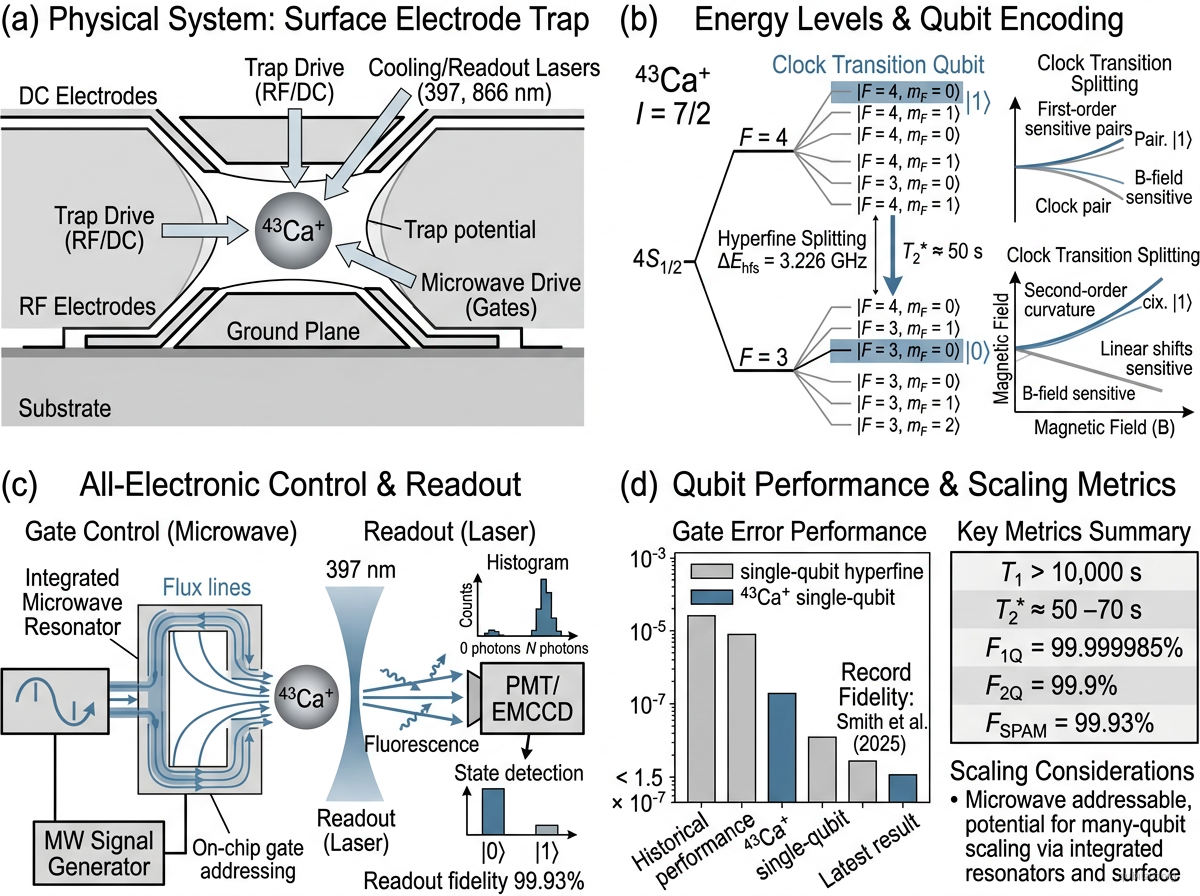
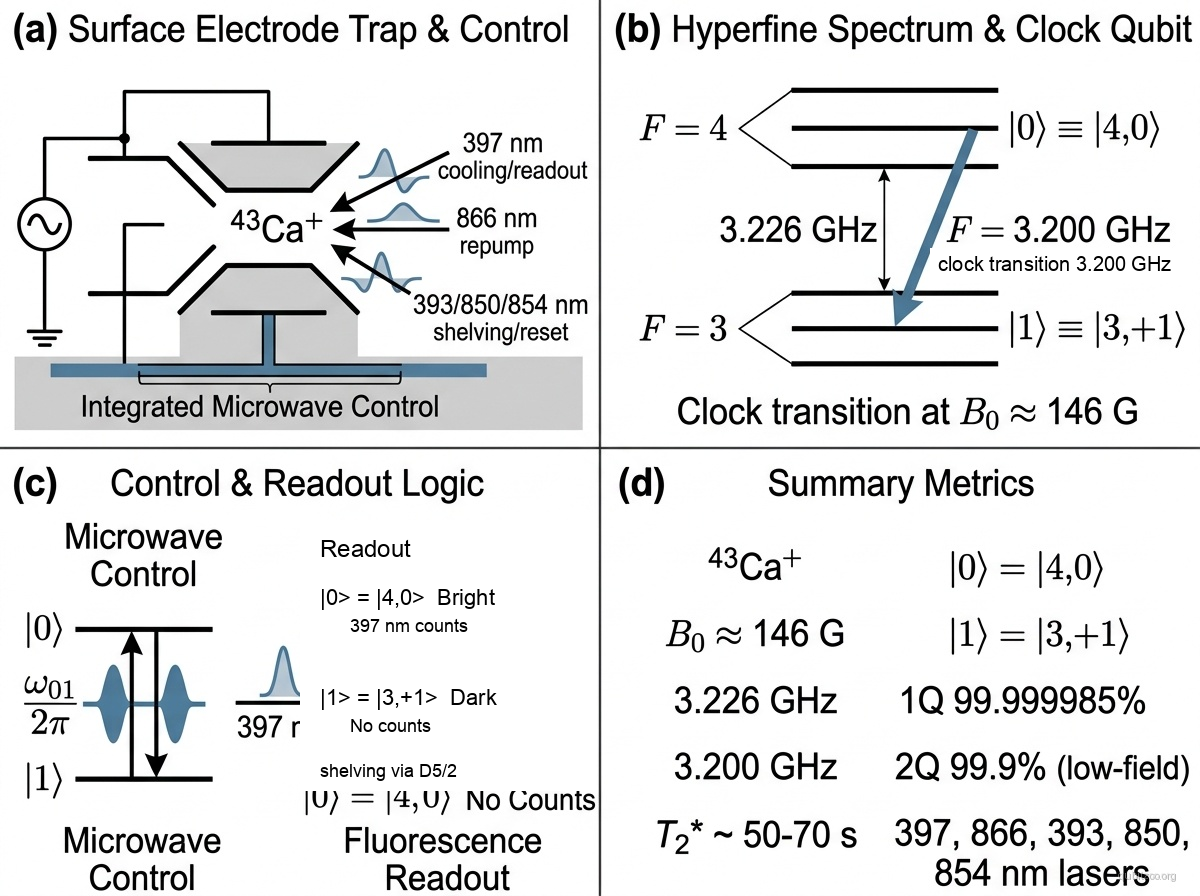
Audit calcium-43 ion qubit entry

diff --git a/content/Zoo/calcium-43-ion-qubit.md b/content/Zoo/calcium-43-ion-qubit.md
@@ -3,7 +3,7 @@ title: Calcium-43 Trapped-Ion Qubit
 entry_type: qubit
 technology_family: Trapped Ion
 status: demonstrated
-figure_reviewed: false
+figure_reviewed: true
 first_proposed_year: 2014
 first_demonstrated_year: 2014
 keywords:
@@ -17,10 +17,10 @@ keywords:
 - surface electrode trap
 - single qubit fidelity record
 influence_score: 0.84
-last_updated: '2026-04-04'
+last_updated: '2026-04-05'
 generated_by: scibok-curation
 extracted_by: scibok
-verified_by: scibok-manual-2026-04-04
+verified_by: scibok-deep-audit-2026-04-05
 ---
 
 ## Figure
@@ -29,46 +29,45 @@ verified_by: scibok-manual-2026-04-04
 
 ## Description
 
-The calcium-43 trapped-ion qubit encodes quantum information in the hyperfine clock states of the $^{43}\text{Ca}^+$ ion's $4S_{1/2}$ ground-state manifold. With nuclear spin $I = 7/2$, the ground state splits into $F = 3$ and $F = 4$ hyperfine levels separated by 3.226 GHz, yielding 16 ground-state sublevels. The qubit is encoded in the magnetically insensitive $|F=4, m_F=0\rangle \leftrightarrow |F=3, m_F=0\rangle$ clock transition, providing first-order immunity to magnetic field fluctuations with measured coherence times $T_2^* \approx 50$ seconds without magnetic shielding.
+The calcium-43 trapped-ion qubit stores quantum information in the hyperfine ground-state manifold of $^{43}\text{Ca}^+$, whose nuclear spin $I = 7/2$ splits the $4S_{1/2}$ level into $F = 3$ and $F = 4$ manifolds separated by 3.226 GHz at zero field, for a total of 16 ground-state sublevels. In the Oxford high-coherence implementation, the qubit is encoded in the field-independent hyperfine transition $|4,0\rangle \leftrightarrow |3,+1\rangle$ at a bias field of about 146 G, giving a qubit frequency near 3.200 GHz and strong suppression of first-order magnetic-field noise. This operating point underlies the long memory times reported by Harty et al. (2014) and the record single-qubit fidelities reported by Smith et al. (2025).
 
-The $^{43}\text{Ca}^+$ ion is the workhorse qubit of the Oxford ion trap group. Its defining advantage is compatibility with microwave-driven single-qubit gates using chip-integrated microwave resonators and waveguides on surface-electrode traps. This eliminates the need for lasers in single-qubit operations entirely, providing a path to scalable control without complex optical addressing. Laser systems are still required for cooling (397 nm), repumping (866 nm), and state readout via electron shelving, but qubit manipulation itself is all-electronic.
+The $^{43}\text{Ca}^+$ ion is the workhorse qubit of the Oxford trapped-ion program because it pairs atomic-clock-grade coherence with microwave control in a microfabricated surface-electrode trap. Chip-integrated microwave resonators and waveguides drive single-qubit rotations electronically, avoiding laser-based single-qubit addressing. Lasers are still required for Doppler cooling (397 nm), repumping (866 nm), shelving/reset (393/850/854 nm), and fluorescence-based state preparation and readout, but coherent single-qubit control itself is all-electronic.
 
-This platform holds the all-time record for single-qubit gate fidelity across all physical qubit technologies: Smith et al. (2025) demonstrated a Clifford gate error of $1.5(4) \times 10^{-7}$ (fidelity 99.999985%), using a microfabricated surface-electrode trap at room temperature without magnetic shielding. The two-qubit gate record for $^{43}\text{Ca}^+$ is 99.9(1)%, demonstrated by Ballance et al. (2016) using geometric phase gates.
+Different $^{43}\text{Ca}^+$ experiments use different hyperfine encodings depending on the task. The best single-qubit results use the 146 G clock transition above, while Ballance et al. (2016) used a low-field Raman-driven hyperfine basis for the 99.9(1)% two-qubit gate result. Together these experiments make $^{43}\text{Ca}^+$ a benchmark species for long-lived, high-fidelity trapped-ion qubits.
 
 ## Hamiltonian
 
-The ground-state hyperfine Hamiltonian for $^{43}\text{Ca}^+$ ($I = 7/2$, $J = 1/2$):
+For the $4S_{1/2}$ ground manifold of $^{43}\text{Ca}^+$ ($I = 7/2$, $J = 1/2$), the relevant Hamiltonian is the hyperfine-plus-Zeeman Hamiltonian
 
-$$H_{\text{hfs}} = A_{\text{hfs}} \, \mathbf{I} \cdot \mathbf{J} + B_{\text{hfs}} \frac{3(\mathbf{I} \cdot \mathbf{J})^2 + \frac{3}{2}(\mathbf{I} \cdot \mathbf{J}) - I(I+1)J(J+1)}{2I(2I-1)J(2J-1)}$$
+$$H = A_{\mathrm{hfs}}\, \mathbf{I}\cdot\mathbf{J} + \mu_B g_J J_z B - \mu_N g_I I_z B.$$
 
-For $J = 1/2$, the electric quadrupole term ($B_{\text{hfs}}$) vanishes, simplifying to:
+Because $J = 1/2$, there is no electric-quadrupole hyperfine term in this manifold. At zero field this produces the familiar $F=4$ and $F=3$ hyperfine manifolds with splitting $\Delta E_{\mathrm{hfs}} = h \times 3.226\,\mathrm{GHz}$. At finite magnetic field the eigenenergies follow the Breit-Rabi structure, and the Oxford clock qubit is chosen at the field-independent point near $B_0 \approx 146\,\mathrm{G}$ on the transition
 
-$$H_{\text{hfs}} = A_{\text{hfs}} \, \mathbf{I} \cdot \mathbf{J}$$
+$$|0\rangle \equiv |4,0\rangle, \qquad |1\rangle \equiv |3,+1\rangle,$$
 
-with $\Delta E_{\text{hfs}} = h \times 3.226\,\text{GHz}$.
+with qubit frequency $\omega_{01}/2\pi \approx 3.200\,\mathrm{GHz}$. Near that operating point,
 
-The clock-state transition frequency shifts only at second order in magnetic field:
+$$\omega_{01}(B) \approx \omega_{01}(B_0) + \tfrac{1}{2}\kappa (B-B_0)^2,$$
 
-$$\omega_{01}(B) = \omega_{01}(0) + \beta B^2$$
-
-where $\beta/2\pi \approx 1243\,\text{Hz/mT}^2$.
+so the first-order magnetic sensitivity vanishes. Separate low-field gate experiments on the same species use other hyperfine basis states; for example, Ballance et al. (2016) operated a Raman-driven two-qubit gate in a low-field regime rather than at the 146 G clock point.
 
 ## Motivation
 
-The $^{43}\text{Ca}^+$ system demonstrates that microwave-driven qubit gates can achieve fidelities far exceeding what laser-driven systems have demonstrated for single-qubit operations. Microwave control offers fundamental advantages for scaling: microwave fields can be generated on-chip via lithographically defined resonators, avoiding the alignment, pointing stability, and individual beam delivery challenges of laser-based addressing. The record $10^{-7}$-level gate errors place single-qubit operations effectively in the "error-free" regime for practical fault-tolerant quantum computing, shifting the engineering focus to two-qubit gates and system-level integration.
+The $^{43}\text{Ca}^+$ system demonstrates that microwave-driven trapped-ion qubit gates can reach error rates deep into the fault-tolerant regime while preserving the long coherence times expected from hyperfine clock transitions. Microwave control offers fundamental scaling advantages: fields can be generated on-chip via lithographically defined resonators, avoiding the alignment, pointing stability, and individual beam-delivery burden of laser-based single-qubit addressing. The record $10^{-7}$-level single-qubit errors place 1Q operations effectively in the “error-free” regime for practical architectures, shifting the real bottleneck to entangling gates, optical infrastructure, and system integration.
 
 ## Experimental Status
 
 **High-fidelity qubit operations — Harty et al. (2014):**
 - First comprehensive characterization of $^{43}\text{Ca}^+$ as a microwave-driven hyperfine qubit.
+- Qubit encoded in the field-independent $|4,0\rangle \leftrightarrow |3,+1\rangle$ transition near $B_0 \approx 146\,\text{G}$.
 - Single-qubit gate fidelity: 99.9999% (error $10^{-6}$).
 - State preparation and readout fidelity: 99.93%.
 - Coherence time: $T_2^* = 50\,\text{s}$ in room-temperature surface-electrode trap without magnetic shielding.
-- Demonstrated all operations using chip-integrated microwave resonators.
+- Demonstrated all coherent single-qubit operations using chip-integrated microwave resonators.
 
 **Two-qubit gate record — Ballance et al. (2016):**
-- Two-qubit gate fidelity: 99.9(1)% using a geometric phase (light-shift) gate.
-- Demonstrated in $^{43}\text{Ca}^+$ hyperfine qubits at Oxford.
+- Two-qubit gate fidelity: 99.9(1)% using a Raman-driven geometric phase ($\sigma_z \otimes \sigma_z$) gate.
+- Demonstrated in $^{43}\text{Ca}^+$ hyperfine qubits at Oxford in a low-field operating regime ($B = 0.196\,\text{mT}$), distinct from the 146 G clock-state operating point used for the 1Q record.
 
 **Single-qubit gate record — Smith et al. (2025):**
 - Clifford gate error: $1.5(4) \times 10^{-7}$ (fidelity 99.999985%).
@@ -82,15 +81,16 @@ The $^{43}\text{Ca}^+$ system demonstrates that microwave-driven qubit gates can
 
 | Metric | Value | Notes | Fidelity reference |
 |--------|-------|-------|--------------------|
-| $T_1$ | >10,000 s | Hyperfine ground states; no radiative decay channel | — |
-| $T_2^*$ | ~50–70 s | Room temperature, no magnetic shielding | [Harty et al. 2014](https://doi.org/10.1103/PhysRevLett.113.220501) |
-| Hyperfine splitting | 3.226 GHz | Clock transition, first-order field insensitive | [Harty et al. 2014](https://doi.org/10.1103/PhysRevLett.113.220501) |
-| 1Q gate fidelity | 99.999985% | Microwave RB, error $1.5 \times 10^{-7}$; all-time record | [Smith et al. 2025](https://doi.org/10.1103/42w2-6ccy) |
-| 2Q gate fidelity | 99.9% | Geometric phase gate | [Ballance et al. 2016](https://doi.org/10.1103/PhysRevLett.117.060504) |
-| SPAM fidelity | 99.93% | Single-shot fluorescence readout | [Harty et al. 2014](https://doi.org/10.1103/PhysRevLett.113.220501) |
-| Gate time (1Q) | 4.4–35 μs | Speed-fidelity tradeoff | [Smith et al. 2025](https://doi.org/10.1103/42w2-6ccy) |
-| Nuclear spin | $I = 7/2$ | 16 ground-state sublevels | — |
-| Operating temperature | Room temp (trap) | Ions at ~mK; no cryogenics required | — |
+| $T_1$ | >10,000 s | Hyperfine ground states; practically limited by ion lifetime, not radiative decay | [Harty et al. 2014](https://doi.org/10.1103/PhysRevLett.113.220501) |
+| $T_2^*$ | ~50–70 s | 146 G field-independent clock transition $|4,0\rangle \leftrightarrow |3,+1\rangle$ in room-temperature trap without magnetic shielding | [Harty et al. 2014](https://doi.org/10.1103/PhysRevLett.113.220501); [Smith et al. 2025](https://doi.org/10.1103/42w2-6ccy) |
+| Zero-field hyperfine splitting | 3.226 GHz | Separation between the $F=4$ and $F=3$ ground manifolds | [Harty et al. 2014](https://doi.org/10.1103/PhysRevLett.113.220501) |
+| Operating qubit frequency | 3.200 GHz | Oxford clock-state operating point near $B_0 \approx 146\,\text{G}$ | [Harty et al. 2014](https://doi.org/10.1103/PhysRevLett.113.220501) |
+| 1Q gate fidelity | 99.999985% | Microwave randomized benchmarking, error $1.5 \times 10^{-7}$; all-time record across physical qubits | [Smith et al. 2025](https://doi.org/10.1103/42w2-6ccy) |
+| 2Q gate fidelity | 99.9% | Raman-driven geometric phase gate in a low-field hyperfine basis, not the 146 G clock-state basis | [Ballance et al. 2016](https://doi.org/10.1103/PhysRevLett.117.060504) |
+| SPAM fidelity | 99.93% | Single-shot fluorescence readout with shelving-based state discrimination | [Harty et al. 2014](https://doi.org/10.1103/PhysRevLett.113.220501) |
+| Gate time (1Q) | 4.4–35 μs | Speed-fidelity tradeoff in microwave control | [Smith et al. 2025](https://doi.org/10.1103/42w2-6ccy) |
+| Nuclear spin | $I = 7/2$ | 16 ground-state sublevels in the $4S_{1/2}$ manifold | [Harty et al. 2014](https://doi.org/10.1103/PhysRevLett.113.220501) |
+| Operating temperature | Room temp (trap) | Ion motion cooled to mK scale; no cryogenic hardware required | [Harty et al. 2014](https://doi.org/10.1103/PhysRevLett.113.220501); [Smith et al. 2025](https://doi.org/10.1103/42w2-6ccy) |
 
 ## Scaling Considerations
 
@@ -98,7 +98,8 @@ The $^{43}\text{Ca}^+$ system demonstrates that microwave-driven qubit gates can
 - **Isotope abundance**: $^{43}\text{Ca}$ has only 0.14% natural abundance, requiring enriched sources and isotope-selective photoionization for efficient loading.
 - **Large ground-state manifold**: the 16 ground-state sublevels from $I = 7/2$ increase the risk of leakage to non-computational states, though Smith et al. measured leakage at $< 10^{-9}$ per gate.
 - **Two-qubit gates**: the current 99.9% two-qubit fidelity lags behind the single-qubit record by orders of magnitude; closing this gap is the main challenge.
-- **Optical transitions**: cooling and readout still require UV/visible lasers (397 nm, 866 nm), limiting the "all-electronic" advantage to qubit manipulation only.
+- **Operating-point mismatch**: the best 1Q and 2Q results were obtained in different hyperfine bases and magnetic-field regimes, so integrating record-level single- and two-qubit performance in one architecture remains an open systems challenge.
+- **Optical transitions**: cooling and readout still require UV/visible lasers (397 nm, 866 nm, plus shelving/reset wavelengths), limiting the "all-electronic" advantage to qubit manipulation only.
 
 ## References
 
@@ -109,7 +110,7 @@ The $^{43}\text{Ca}^+$ system demonstrates that microwave-driven qubit gates can
 - C. J. Ballance et al., "High-Fidelity Quantum Logic Gates Using Trapped-Ion Hyperfine Qubits," [Phys. Rev. Lett. 117, 060504 (2016)](https://doi.org/10.1103/PhysRevLett.117.060504) | [arXiv:1512.04600](https://arxiv.org/abs/1512.04600)
 
 ### Single-qubit gate record
-- M. C. Smith et al., "Single-qubit gates with errors at the $10^{-7}$ level," [Phys. Rev. Lett. 134, 230601 (2025)](https://doi.org/10.1103/42w2-6ccy) | [arXiv:2412.04421](https://arxiv.org/abs/2412.04421)
+- M. C. Smith et al., "Single-Qubit Gates with Errors at the $10^{-7}$ Level," [Phys. Rev. Lett. 134, 230601 (2025)](https://doi.org/10.1103/42w2-6ccy) | [arXiv:2412.04421](https://arxiv.org/abs/2412.04421)
 
 ## Linked Papers
 
@@ -121,4 +122,5 @@ The $^{43}\text{Ca}^+$ system demonstrates that microwave-driven qubit gates can
 
 - [[trapped-ion-qubit]] — parent platform
 - [[ytterbium-hyperfine-qubit]] — alternative hyperfine species, dominant in commercial systems
+- [[strontium-88-ion-qubit]] — optical-clock trapped-ion species with a different control stack
 - [[cirac-zoller-gate]] — foundational trapped-ion gate proposal
